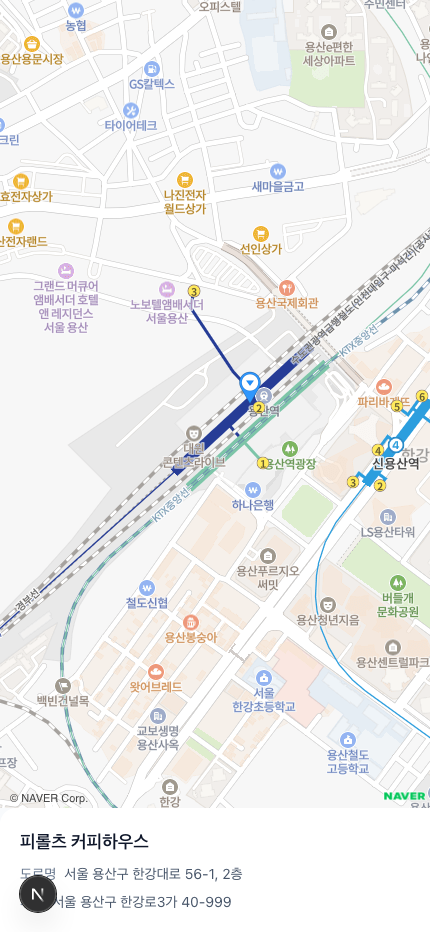
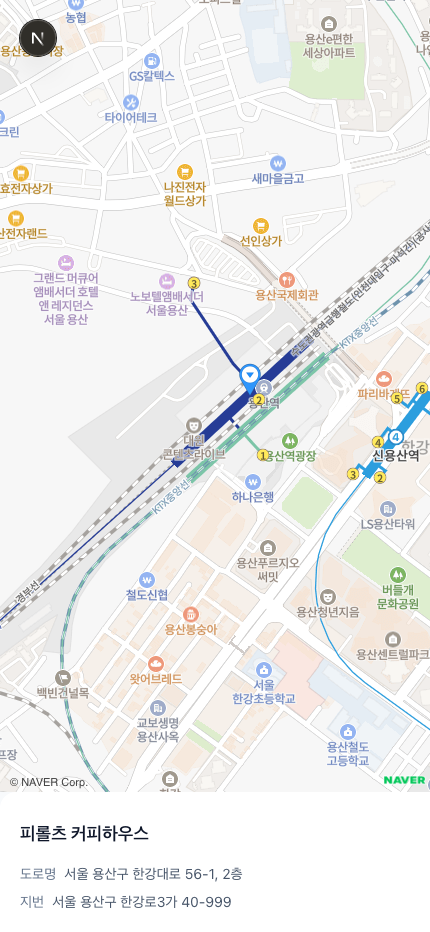
feat(map): 결과 화면을 ?result로 가르고 닫기를 둔다
저장 결과는 한 순간의 상태이면서도 뒤로가기로 빠져나올 수 있어야 한다.
컴포넌트 상태로 들면 뒤로가기가 앱을 벗어나고, 별도 라우트로 빼면 업로드와
결과가 다른 화면이 된다. 쿼리 파라미터가 그 둘을 함께 만족하는 자리다 —
닫기는 `/`로 가는 링크 하나로 끝난다(T28).

파라미터 모양을 좁히지 않는다. 이 화면이 읽는 것은 result 하나지만 필터 ·
목록 선택이 뒤따라 붙는다. 값이 배열로 오면 없는 것으로 본다 — 임의로 첫
값을 고르면 주소를 고친 사람이 무엇을 보게 될지 알 수 없다.

닫기는 제목 줄에 둔다. 지도 위에 띄우면 SDK가 자기 컨트롤을 쌓아 올리는
스택과 계속 다투고, 주소 줄에 두면 긴 주소가 좁은 화면에서 버튼을 밀어낸다.

Changed region(s): [[0.0, 0.0, 1.0, 0.9957], [0.8465, 0.0, 1.0, 0.1245], [0.1814, 0.1556, 0.2116, 0.1867]]

diff --git a/src/app/page.tsx b/src/app/page.tsx
@@ -1,12 +1,16 @@
+import Link from 'next/link';
 import { css } from 'styled-system/css';
 import { SpotDetailPanel } from '@/components/SpotDetailPanel';
 import { SpotMap } from '@/components/SpotMap';
 
 /**
- * 초기 화면 — 저장된 스팟을 지도와 함께 본다.
+ * 홈 — 화면을 라우트가 아니라 `?result`로 가른다.
  *
- * 저장 단계(STEP 4)가 아직 없어 값은 목이다. 실제 데이터가 붙으면 이 자리만
- * 도메인 호출로 바뀌고 아래 두 컴포넌트는 그대로 쓴다.
+ * 저장 결과는 앱을 다시 열거나 뒤로 가면 사라져야 하는 한 순간의 상태이면서도,
+ * 뒤로가기로 빠져나올 수 있어야 한다. 컴포넌트 상태로 들면 뒤로가기가 앱을
+ * 벗어나고, 별도 라우트로 빼면 업로드와 결과가 다른 화면이 된다. 쿼리
+ * 파라미터가 그 둘을 함께 만족하는 유일한 자리다 — 닫기는 `/`로 돌아가는
+ * 링크 하나로 끝난다(T28).
  */
 const SAMPLE_SPOT = {
   placeName: '피롤츠 커피하우스',
@@ -17,6 +21,7 @@ const SAMPLE_SPOT = {
 };
 
 const screen = css({
+  position: 'relative',
   display: 'grid',
   gridTemplateRows: '1fr auto',
   // 모바일 주소창이 접히고 펴져도 지도가 잘리지 않게 dvh를 쓴다 — 프리셋에
@@ -24,7 +29,62 @@ const screen = css({
   height: '[100dvh]',
 });
 
-export default function HomePage() {
+const placeholder = css({
+  display: 'flex',
+  flexDirection: 'column',
+  alignItems: 'center',
+  justifyContent: 'center',
+  gap: '4',
+  height: '[100dvh]',
+  px: '6',
+  textAlign: 'center',
+});
+
+const lede = css({
+  textStyle: 'md',
+  color: 'slate.600',
+  _dark: { color: 'slate.400' },
+});
+
+const action = css({
+  display: 'inline-flex',
+  alignItems: 'center',
+  justifyContent: 'center',
+  minHeight: '[44px]',
+  px: '5',
+  rounded: 'full',
+  borderWidth: 'hairline',
+  borderStyle: 'solid',
+  borderColor: 'slate.300',
+  textStyle: 'sm',
+  _dark: { borderColor: 'slate.700' },
+});
+
+interface Props {
+  // 이 화면이 읽는 것은 `result` 하나지만, 파라미터는 앞으로 늘어난다
+  // (필터 · 목록 선택 등). 그래서 모양을 좁히지 않고 Next가 주는 그대로 받는다.
+  searchParams: Promise<Record<string, string | string[] | undefined>>;
+}
+
+export default async function HomePage({ searchParams }: Props) {
+  // `?result=a&result=b`면 배열로 온다. 결과는 하나뿐이므로 그때는 없는 것으로
+  // 본다 — 임의로 첫 값을 고르면 주소를 고친 사람이 무엇을 보게 될지 알 수 없다.
+  const raw = (await searchParams)['result'];
+  const result = typeof raw === 'string' ? raw : undefined;
+
+  // 업로드 화면은 다른 담당의 자리다. 여기서는 결과 화면으로 들어가는 문만
+  // 둔다 — 지도를 확인할 길이 없으면 이 화면을 검증할 수 없다.
+  if (result === undefined) {
+    return (
+      <main className={placeholder}>
+        <p className={lede}>캡처를 올리면 저장한 장소가 지도에 찍힙니다.</p>
+        <Link className={action} href="/?result=sample">
+          저장 결과 화면 보기
+        </Link>
+      </main>
+    );
+  }
+
   return (
     <main className={screen}>
       <SpotMap
@@ -36,6 +96,7 @@ export default function HomePage() {
         placeName={SAMPLE_SPOT.placeName}
         roadAddress={SAMPLE_SPOT.roadAddress}
         jibunAddress={SAMPLE_SPOT.jibunAddress}
+        closeHref="/"
       />
     </main>
   );

diff --git a/src/components/SpotDetailPanel.tsx b/src/components/SpotDetailPanel.tsx
@@ -1,9 +1,12 @@
+import Link from 'next/link';
 import { css } from 'styled-system/css';
 
 interface Props {
   placeName: string;
   roadAddress: string;
   jibunAddress: string;
+  /** 닫고 돌아갈 곳. 결과 상태를 벗어나는 길이 화면에 보여야 한다. */
+  closeHref: string;
 }
 
 const panel = css({
@@ -23,7 +26,33 @@ const panel = css({
   },
 });
 
+// 닫기를 제목 줄에 둔다. 주소 줄에 함께 두면 긴 주소가 버튼을 화면 밖으로
+// 밀어낸다 — 좁은 화면에서 먼저 사라지는 것이 나가는 길이어서는 안 된다.
+const titleRow = css({
+  display: 'flex',
+  alignItems: 'center',
+  justifyContent: 'space-between',
+  gap: '3',
+});
+
 const name = css({ textStyle: 'lg', fontWeight: 'semibold' });
+
+const closeLink = css({
+  display: 'inline-flex',
+  alignItems: 'center',
+  justifyContent: 'center',
+  flexShrink: '0',
+  minWidth: '11',
+  minHeight: '11',
+  px: '4',
+  rounded: 'full',
+  borderWidth: 'hairline',
+  borderStyle: 'solid',
+  borderColor: 'slate.300',
+  color: 'slate.700',
+  textStyle: 'sm',
+  _dark: { borderColor: 'slate.700', color: 'slate.200' },
+});
 
 const addressRow = css({
   display: 'flex',
@@ -45,10 +74,16 @@ export function SpotDetailPanel({
   placeName,
   roadAddress,
   jibunAddress,
+  closeHref,
 }: Props) {
   return (
     <section className={panel} aria-label="저장된 장소 정보">
-      <h1 className={name}>{placeName}</h1>
+      <div className={titleRow}>
+        <h1 className={name}>{placeName}</h1>
+        <Link className={closeLink} href={closeHref}>
+          닫기
+        </Link>
+      </div>
       <p className={addressRow}>
         <span className={addressLabel}>도로명</span>
         <span>{roadAddress}</span>
